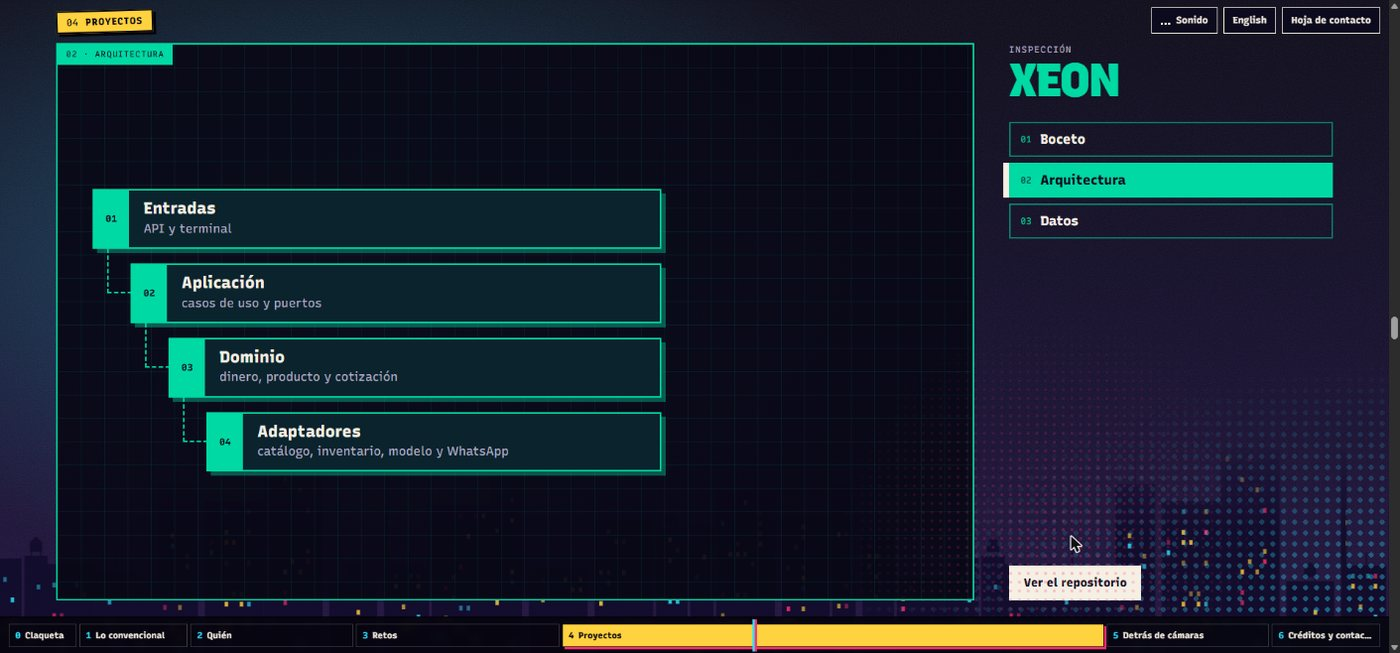
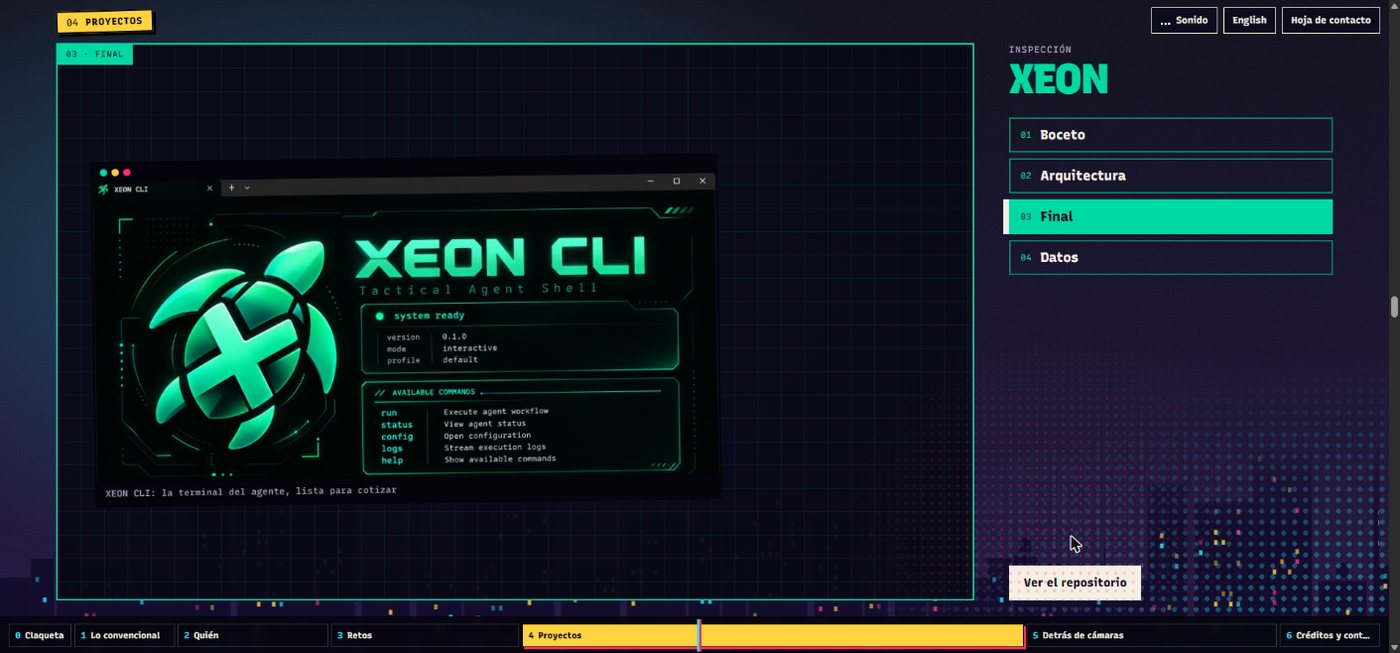
docs: :memo: ShowRealPhotoAndFinalLayerInReadme

diff --git a/README.md b/README.md
@@ -57,8 +57,8 @@ Todo el sitio es una función del tiempo, `f(t)`, donde `t` es cuánto has desli
     <td><img src=".github/assets/08-diptico.jpg" alt="Escena 4: la pantalla partida en papel y noche; a la izquierda la solución convencional tachada y a la derecha la propia"><br><sub><b>4 · Díptico.</b> Lo convencional, tachado; lo que hice, al lado.</sub></td>
   </tr>
   <tr>
-    <td><img src=".github/assets/09-inspeccion.jpg" alt="Escena 4: la mesa de inspección del proyecto XEON con la capa de arquitectura y el selector de capas"><br><sub><b>4 · Inspección.</b> Boceto, arquitectura y datos de cada proyecto.</sub></td>
-    <td><img src=".github/assets/10-contacto.jpg" alt="Escena 6: «Fin. ¿Rodamos la siguiente?» con los enlaces de contacto y el avatar"><br><sub><b>6 · Contacto.</b> El cierre.</sub></td>
+    <td><img src=".github/assets/09-inspeccion.jpg" alt="Escena 4: la mesa de inspección de XEON en su capa «Final», con la captura real de su terminal y el selector de cuatro capas"><br><sub><b>4 · Inspección.</b> Boceto, arquitectura, producto real y datos de cada proyecto.</sub></td>
+    <td><img src=".github/assets/10-contacto.jpg" alt="Escena 6: el avatar dibujado se convierte en la foto real de Daniel, punto a punto como una trama de imprenta, junto a «Fin. ¿Rodamos la siguiente?»"><br><sub><b>6 · Contacto.</b> El dibujo se convierte en la toma real, punto a punto.</sub></td>
   </tr>
 </table>
 
@@ -78,9 +78,9 @@ Todo el sitio es una función del tiempo, `f(t)`, donde `t` es cuánto has desli
 | 1 | Lo convencional | El portafolio de siempre se agrieta, resulta ser una viñeta de la pared de storyboard y la pared cae. | Lápiz y papel; después, la primera descarga |
 | 2 | Quién | Mi presentación junto al avatar en boceto, tinta y final. | Suspenso: silencios, oleadas y golpes graves |
 | 3 | Retos | Cuatro hitos en montaje rápido. | Descarga |
-| 4 | Proyectos | [XEON](https://github.com/Dvanielx03/Xeon-agente-cotizaciones), [Tool Rental](https://github.com/Dvanielx03/Tool-rental-platform) y [ResumeLens](https://github.com/Dvanielx03/ResumeLens-cv): claqueta, díptico e inspección por capas, con acceso directo al código. | Suspenso, para poder leer |
+| 4 | Proyectos | [XEON](https://github.com/Dvanielx03/Xeon-agente-cotizaciones), [Tool Rental](https://github.com/Dvanielx03/Tool-rental-platform) y [ResumeLens](https://github.com/Dvanielx03/ResumeLens-cv): claqueta, díptico e inspección por capas (boceto, arquitectura, captura real del producto y datos), con acceso directo al código. | Suspenso, para poder leer |
 | 5 | Detrás de cámaras | Cómo está hecha la película, mis herramientas propias y el showreel «Siete mundos». | Suspenso que sube y cae la segunda descarga cuando arranca el showreel |
-| 6 | Créditos y contacto | Créditos que suben y un iris que cierra. | El tema, lento y lejano |
+| 6 | Créditos y contacto | Créditos que suben; el avatar se rebobina y aparece mi foto real, y un iris cierra. | El tema, lento y lejano |
 
 Son 26 planos. Con las flechas <kbd>←</kbd> <kbd>→</kbd> saltas de plano; con <kbd>S</kbd> enciendes o apagas el sonido.
 
@@ -149,13 +149,13 @@ En producción. Lo que hay y lo que falta, sin adornos:
 
 - **Hecho:** las siete escenas con sus transiciones, la música, las dos versiones de idioma, la hoja de contacto como vía rápida y la [publicación en GitHub Pages](https://dvanielx03.github.io/DanielVerse/), que se actualiza sola con cada cambio en `main`.
 - **Comprobado:** en Chromium de escritorio y a anchos de móvil desde 320 px.
-- **Pendiente:** la capa «final» de cada proyecto con capturas reales, y probarlo en Firefox, Safari, un teléfono de verdad y con lector de pantalla.
+- **Pendiente:** probarlo en Firefox, Safari, un teléfono de verdad y con lector de pantalla, y cargar la tipografía por partes.
 
 ## Créditos
 
 - **Tipografías:** [Recursive](https://www.recursive.design) y [Shantell Sans](https://shantellsans.com).
 - **Avatar:** generado con IA a partir de una foto real.
-- **Música:** original, generada con ElevenLabs; el suspenso y el cierre se montaron a partir de esa misma grabación. Los efectos se sintetizan con Web Audio.
+- **Música:** original, generada con ElevenLabs; el suspenso y el cierre se montaron a partir de esa misma grabación. Los efectos se sintetizan con Web Audio, y cada transición suena como se ve: tajo, trama, glitch, viñeta, estallido.
 - **Lenguaje visual:** el del cómic impreso y el cine de animación que mezcla boceto, tinta, semitonos y color fuera de registro. No se usan personajes, arte ni música de terceros.
 
 Si quieres hablar: [LinkedIn](https://www.linkedin.com/in/daniel-santiago-mayorga-tellez-5bb0463a0/) · [GitHub](https://github.com/Dvanielx03)
